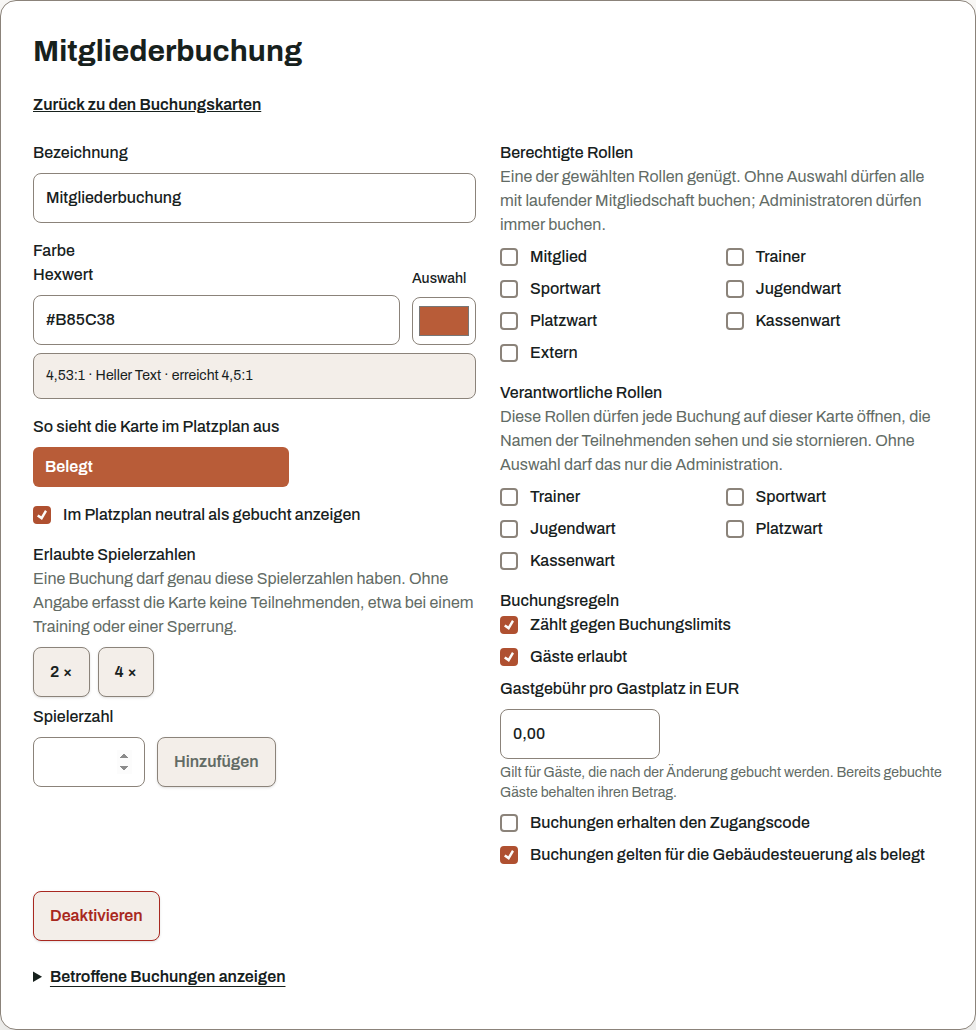
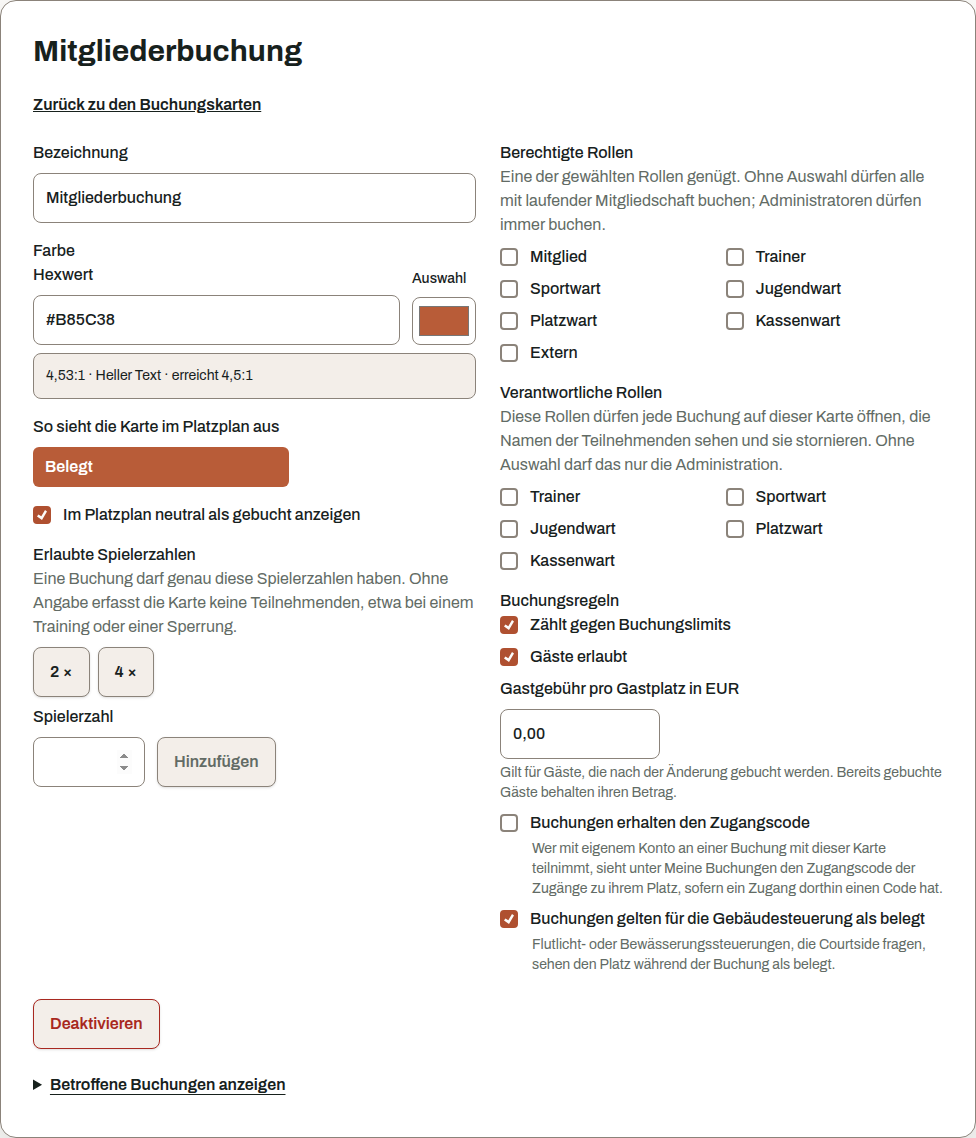
fix: say what the booking card's access and occupancy switches change (#1946)
* fix: say what the booking card's access and occupancy switches change

A board member setting up a card for external players could not tell
which switch makes the door code appear under My bookings, nor whether
the occupancy switch had anything to do with the door. Each switch on the
new-card and the card form now carries a hint, linked as its description:
the participants see the access code under My bookings, and floodlight or
irrigation controls that ask Courtside see the court as occupied. The
hints use the facility page's own terms.

Closes #1920

Claude-Session: https://claude.ai/code/session_01U5R8VLVpAiMfY8EGhGGP4a

* fix: name the conditions under which a card's bookings show an access code

The whole-branch review found the access hint promised every participant
a code. Only participants with an account see one, and only for a court
that an access point with a code leads to. The hint now says so.

Claude-Session: https://claude.ai/code/session_01U5R8VLVpAiMfY8EGhGGP4a

* test: update the card baselines for the switch hints

Claude-Session: https://claude.ai/code/session_01U5R8VLVpAiMfY8EGhGGP4a

---------

diff --git a/frontend/src/views/facility/cardControls.tsx b/frontend/src/views/facility/cardControls.tsx
@@ -16,8 +16,15 @@ const roles: Role[] = ["MEMBER", "TRAINER", "SPORT_DIRECTOR", "YOUTH_DIRECTOR", 
 // The server strips MEMBER before matching a managing role.
 const managingRoleOptions: Role[] = roles.filter((role) => role !== "MEMBER");
 
-export function Checkbox({ name, label, checked, defaultChecked, disabled, value, changed, ...props }: { name?: string; label: string; checked?: boolean; defaultChecked?: boolean; disabled?: boolean; value?: string; changed?: (checked: boolean) => void; "data-testid"?: string }) {
-  return <label className="flex items-center gap-3 font-medium"><input data-testid={props["data-testid"]} name={name} disabled={disabled} type="checkbox" value={value} checked={changed ? checked : undefined} defaultChecked={changed ? undefined : defaultChecked} onChange={changed ? (event) => changed(event.target.checked) : undefined} />{label}</label>;
+export function Checkbox({ name, label, hint, checked, defaultChecked, disabled, value, changed, ...props }: { name?: string; label: string; hint?: string; checked?: boolean; defaultChecked?: boolean; disabled?: boolean; value?: string; changed?: (checked: boolean) => void; "data-testid"?: string }) {
+  const testId = props["data-testid"];
+  const hintId = hint && testId ? `${testId}-hint` : undefined;
+  const box = <label className="flex items-center gap-3 font-medium"><input data-testid={testId} name={name} disabled={disabled} type="checkbox" value={value} checked={changed ? checked : undefined} defaultChecked={changed ? undefined : defaultChecked} onChange={changed ? (event) => changed(event.target.checked) : undefined} aria-describedby={hintId} />{label}</label>;
+  if (!hint) return box;
+  return <div className="grid gap-1">
+    {box}
+    <p id={hintId} data-testid={hintId} className="text-muted pl-8 text-sm">{hint}</p>
+  </div>;
 }
 
 function RoleCheckboxes({ options, legendKey, hintKey, hintTestId, name, selected, disabled, changed, testIdPrefix }: { options: Role[]; legendKey: string; hintKey: string; hintTestId: string; name?: string; selected: Role[]; disabled?: boolean; changed?: (roles: Role[]) => void; testIdPrefix?: string }) {

diff --git a/frontend/src/views/facility/AdminBookingCardView.tsx b/frontend/src/views/facility/AdminBookingCardView.tsx
@@ -136,10 +136,10 @@ export function AdminBookingCardView() {
                            value={priceDraft ?? minorAsDecimal(card.externalPriceMinor, i18n.language, club.currency)} />}
             {card.id === COURT_CLOSED
               ? <p data-testid="card-grants-access-closure" className="text-muted text-sm">{t("admin.facility.grantsAccessClosure")}</p>
-              : <Checkbox disabled={disabled} data-testid="card-grants-access" label={t("admin.facility.grantsAccess")} checked={card.grantsAccess} changed={(grantsAccess) => setCard({ ...card, grantsAccess })} />}
+              : <Checkbox disabled={disabled} data-testid="card-grants-access" label={t("admin.facility.grantsAccess")} hint={t("admin.facility.grantsAccessHint")} checked={card.grantsAccess} changed={(grantsAccess) => setCard({ ...card, grantsAccess })} />}
             {card.id === COURT_CLOSED
               ? <p data-testid="card-signals-occupancy-closure" className="text-muted text-sm">{t("admin.facility.signalsOccupancyClosure")}</p>
-              : <Checkbox disabled={disabled} data-testid="card-signals-occupancy" label={t("admin.facility.signalsOccupancy")} checked={card.signalsOccupancy} changed={(signalsOccupancy) => setCard({ ...card, signalsOccupancy })} />}
+              : <Checkbox disabled={disabled} data-testid="card-signals-occupancy" label={t("admin.facility.signalsOccupancy")} hint={t("admin.facility.signalsOccupancyHint")} checked={card.signalsOccupancy} changed={(signalsOccupancy) => setCard({ ...card, signalsOccupancy })} />}
           </BookingRules>
         </div>
       </div>

diff --git a/frontend/src/locales/de.ts b/frontend/src/locales/de.ts
@@ -891,8 +891,10 @@ const de = {
   "admin.facility.externalPriceHelp": "Gilt für Buchungen nach der Änderung. Andere Dauern kosten anteilig, bestehende Buchungen behalten ihren Betrag.",
   "admin.facility.showGenericOccupancy": "Im Platzplan neutral als gebucht anzeigen",
   "admin.facility.grantsAccess": "Buchungen erhalten den Zugangscode",
+  "admin.facility.grantsAccessHint": "Wer mit eigenem Konto an einer Buchung mit dieser Karte teilnimmt, sieht unter Meine Buchungen den Zugangscode der Zugänge zu ihrem Platz, sofern ein Zugang dorthin einen Code hat.",
   "admin.facility.grantsAccessClosure": "Eine Platzsperrung erhält nie einen Zugangscode.",
   "admin.facility.signalsOccupancy": "Buchungen gelten für die Gebäudesteuerung als belegt",
+  "admin.facility.signalsOccupancyHint": "Flutlicht- oder Bewässerungssteuerungen, die Courtside fragen, sehen den Platz während der Buchung als belegt.",
   "admin.facility.signalsOccupancyClosure": "Eine Platzsperrung gilt für die Gebäudesteuerung nie als belegt.",
   "admin.facility.buildingAutomation": "Gebäudesteuerung",
   "admin.facility.buildingAutomationHint": "Flutlicht- oder Bewässerungssteuerungen können Courtside einmal pro Minute fragen, ob ein Platz belegt ist und wie viele Minuten bis zur nächsten Buchung bleiben. Dabei zeigen sie bei jeder Anfrage einen Schlüssel vor. Courtside schaltet selbst nichts.",

diff --git a/frontend/src/locales/en.ts b/frontend/src/locales/en.ts
@@ -893,8 +893,10 @@ const en: Record<keyof typeof de, string> = {
   "admin.facility.externalPriceHelp": "Applies to bookings made after the change. Other durations cost proportionally, existing bookings keep their amount.",
   "admin.facility.showGenericOccupancy": "Show as neutrally booked in the court plan",
   "admin.facility.grantsAccess": "Bookings receive the access code",
+  "admin.facility.grantsAccessHint": "Players with an account who take part in a booking with this card see the access code of the access points to its court under My bookings, provided an access point there has a code.",
   "admin.facility.grantsAccessClosure": "A court closure never receives an access code.",
   "admin.facility.signalsOccupancy": "Bookings count as occupied for building automation",
+  "admin.facility.signalsOccupancyHint": "Floodlight or irrigation controls that ask Courtside see the court as occupied during the booking.",
   "admin.facility.signalsOccupancyClosure": "A court closure never counts as occupied for building automation.",
   "admin.facility.buildingAutomation": "Building automation",
   "admin.facility.buildingAutomationHint": "Floodlight or irrigation controls can ask Courtside, once a minute, whether each court is occupied and how many minutes remain until its next booking. They present a key with every request. Courtside never switches anything itself.",

diff --git a/frontend/src/views/facility/AdminBookingCardsView.tsx b/frontend/src/views/facility/AdminBookingCardsView.tsx
@@ -121,8 +121,8 @@ function CardCreateForm({ disabled, form, counts, setCounts, color, setColor, fe
         <Checkbox disabled={disabled} name="guestAllowed" label={t("admin.facility.guestAllowed")} />
         <AmountField kind="guestFee" testId="new-card-guest-fee" disabled={disabled} {...fee} />
         {price && <AmountField kind="externalPrice" testId="new-card-external-price" disabled={disabled} {...price} />}
-        <Checkbox disabled={disabled} name="grantsAccess" data-testid="new-card-grants-access" label={t("admin.facility.grantsAccess")} />
-        <Checkbox disabled={disabled} name="signalsOccupancy" data-testid="new-card-signals-occupancy" defaultChecked label={t("admin.facility.signalsOccupancy")} />
+        <Checkbox disabled={disabled} name="grantsAccess" data-testid="new-card-grants-access" label={t("admin.facility.grantsAccess")} hint={t("admin.facility.grantsAccessHint")} />
+        <Checkbox disabled={disabled} name="signalsOccupancy" data-testid="new-card-signals-occupancy" defaultChecked label={t("admin.facility.signalsOccupancy")} hint={t("admin.facility.signalsOccupancyHint")} />
       </BookingRules>
     </div>
     <Button variant="primary" data-testid="create-card" disabled={disabled} className="justify-self-start" type="submit">{t("admin.create")}</Button>

diff --git a/frontend/src/views/facility/AdminBookingCardView.test.tsx b/frontend/src/views/facility/AdminBookingCardView.test.tsx
@@ -354,6 +354,18 @@ describe("AdminBookingCardView", () => {
     await waitFor(() => expect(change).toHaveBeenCalledWith("card-1", expect.objectContaining({ grantsAccess: true })));
   });
 
+  it("given an ordinary card, when the page loads, then each switch says what it changes for a booking", async () => {
+    // when
+    show();
+    await screen.findByTestId("card-label");
+
+    // then
+    expect(screen.getByTestId("card-grants-access-hint"), "the access switch names where the code appears").toHaveTextContent("see the access code of the access points to its court under My bookings");
+    expect(screen.getByTestId("card-grants-access")).toHaveAccessibleDescription(screen.getByTestId("card-grants-access-hint").textContent ?? "");
+    expect(screen.getByTestId("card-signals-occupancy-hint"), "the occupancy switch names who asks").toHaveTextContent("Floodlight or irrigation controls that ask Courtside");
+    expect(screen.getByTestId("card-signals-occupancy")).toHaveAccessibleDescription(screen.getByTestId("card-signals-occupancy-hint").textContent ?? "");
+  });
+
   it("given the closure card, when the page loads, then it offers no access code switch and says why", async () => {
     // given
     const closure = "44444444-4444-4444-4444-444444444444";

diff --git a/frontend/src/views/facility/AdminBookingCardsView.test.tsx b/frontend/src/views/facility/AdminBookingCardsView.test.tsx
@@ -50,6 +50,15 @@ describe("AdminBookingCardsView", () => {
     expect(screen.getByTestId("card-status-card-1")).toHaveTextContent("Active");
   });
 
+  it("when a new card is offered, then each switch says what it changes for a booking", async () => {
+    // when
+    show();
+
+    // then
+    expect(await screen.findByTestId("new-card-grants-access-hint"), "the access switch names where the code appears").toHaveTextContent("see the access code of the access points to its court under My bookings");
+    expect(screen.getByTestId("new-card-signals-occupancy-hint"), "the occupancy switch names who asks").toHaveTextContent("see the court as occupied");
+  });
+
   // The page's one primary action opens it, so a board never scrolls past the list to add a card.
   it("when the view loads, then creating a card comes before the cards it would join", async () => {
     // when
